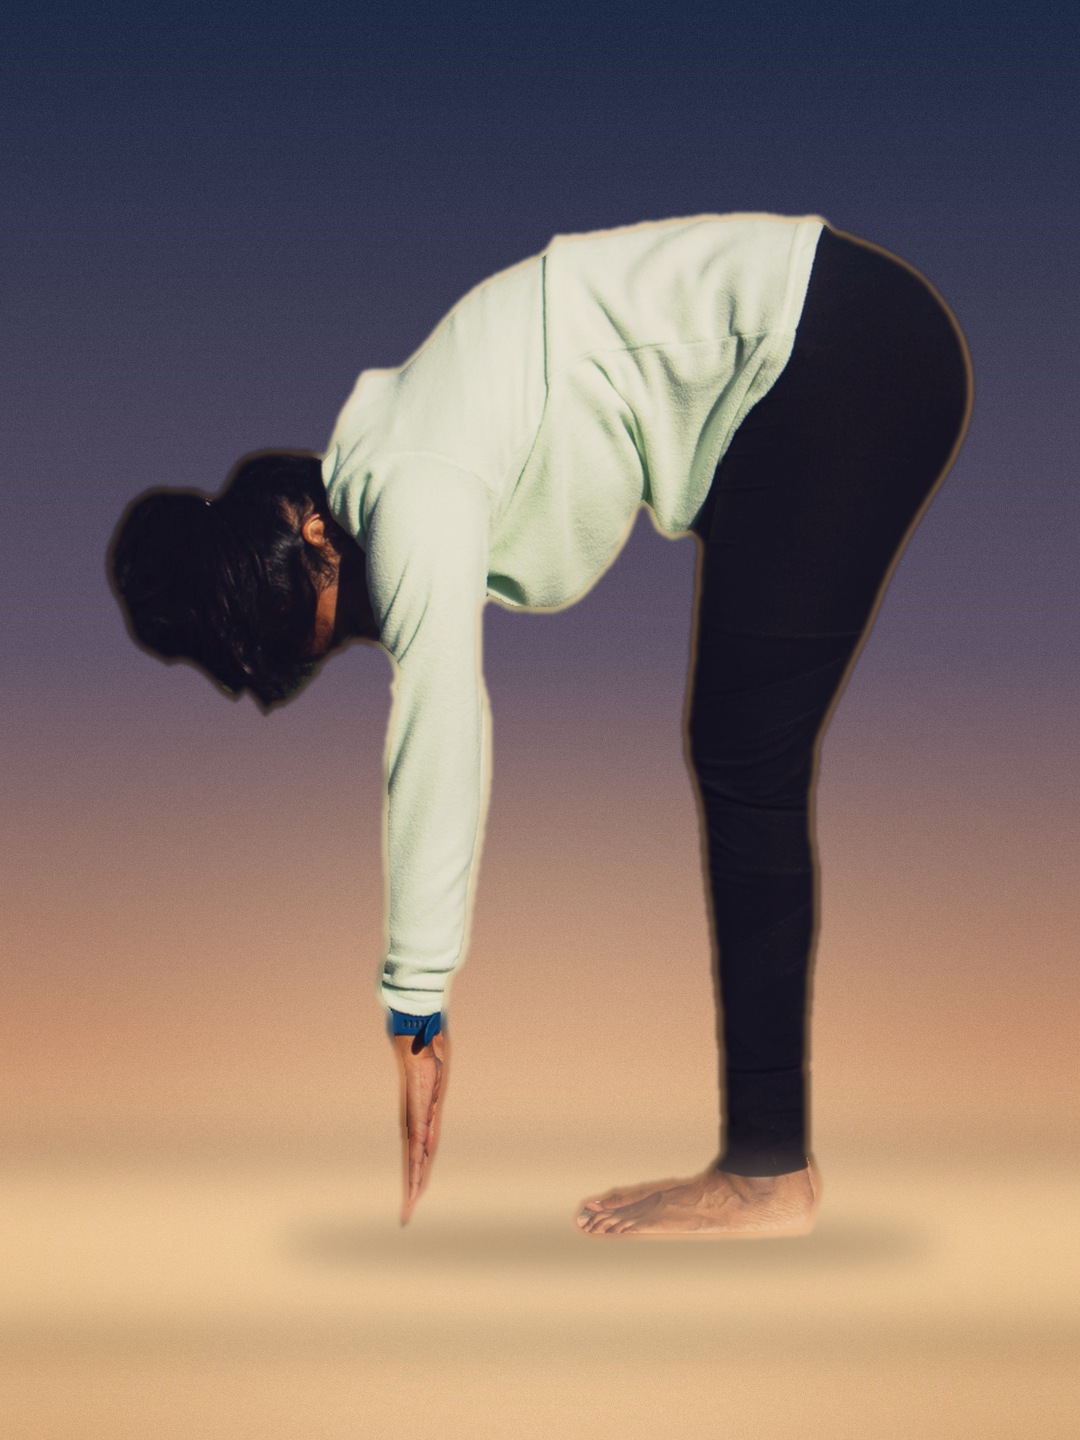
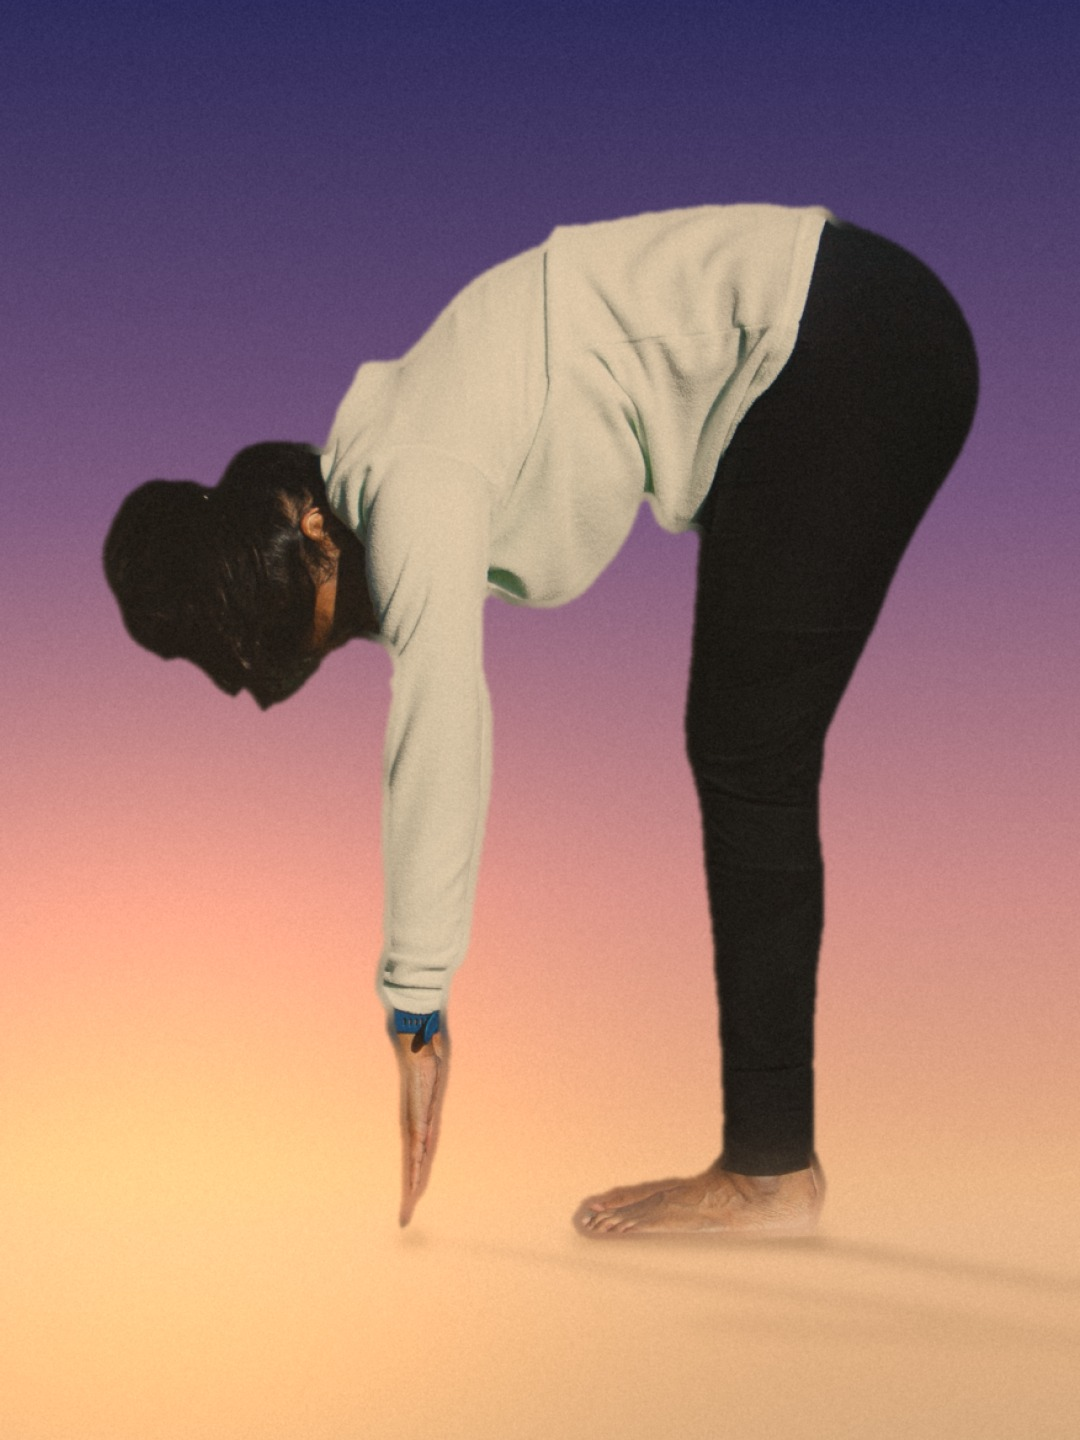
jeevana site: dawn keyframes composed, film regeneration started
Claude-Session: https://claude.ai/code/session_01XhuHXMUtaaY4hUgDgL1ofY

diff --git a/deliverables/jeevana_site_2026-10-26/research/compose_dawn.py b/deliverables/jeevana_site_2026-10-26/research/compose_dawn.py
@@ -4,3 +4,152 @@ description: builds research/keyframes/dawn/frame-NN.jpg (1080x1440) from _raw_a
   Parameters at the top (rim, haze, shadow, grade) are the knobs; the plate is procedural (gradient + glow + grain).
 inputs: --out DIR (default research/keyframes/dawn). outputs: frame-01..12.jpg, plate.jpg."""
 # (starting point written by the brain 2026-10-26; the compositor worker iterates the knobs to an art-director GO)
+import argparse, json
+from pathlib import Path
+import numpy as np, cv2
+from PIL import Image
+
+ROOT = Path(__file__).resolve().parent.parent
+CUT = ROOT / "_raw_assets" / "cutouts_v3"
+W, H = 1080, 1440
+FIG_H, GROUND_Y, MAX_W = 0.72, 0.86, 0.88
+SUN = (0.14, 0.80)                       # low-left, fraction of canvas
+# knobs
+RIM_OPACITY, RIM_PX, RIM_RGB = 0.28, 1.5, (236, 178, 104)       # ochre, sun side only
+HAZE_PLATE, HAZE_SUBJ_MAX = 0.55, 0.35
+CONTACT_OP, CAST_OP, CAST_LEN, CAST_SQUASH = 0.45, 0.22, 0.9, 0.14
+CONTRAST, WRAP_OP, WRAP_RGB = 0.86, 0.14, (255, 176, 112)
+CREAM, HI_START, HI_COMP = np.array([240, 222, 196.]), 170, 0.6
+FRINGE_PX, GRAIN = 3, 5.0
+STOPS = [(0.0, (46, 44, 92)), (0.35, (122, 88, 128)), (0.62, (206, 140, 136)),
+         (0.82, (232, 176, 128)), (1.0, (214, 170, 128))]          # indigo -> dusty rose -> ochre haze
+
+
+def plate(seed=0):
+    y = np.linspace(0, 1, H)[:, None]
+    img = np.zeros((H, W, 3))
+    for c in range(3):
+        img[..., c] = np.interp(y, [s[0] for s in STOPS], [s[1][c] for s in STOPS]) * np.ones((1, W))
+    yy, xx = np.mgrid[0:H, 0:W] / np.array([H, W])[:, None, None]
+    d = np.hypot((xx - SUN[0]) * W / H, yy - SUN[1])
+    glow = np.exp(-(d / 0.30) ** 2)
+    img += glow[..., None] * np.array([70, 42, 10.]) * 0.9
+    band = np.exp(-((yy - GROUND_Y) / 0.06) ** 2)          # horizon haze
+    img = img * (1 - HAZE_PLATE * band[..., None] * 0.5) + np.array([240, 205, 170.]) * HAZE_PLATE * band[..., None] * 0.5
+    return img
+
+
+def grain(img, seed):
+    rng = np.random.default_rng(seed)
+    n = cv2.GaussianBlur(rng.normal(0, 1, (H, W)).astype(np.float32), (0, 0), 0.7)
+    return img + n[..., None] * GRAIN
+
+
+def load(name):
+    meta = json.loads((CUT / "cutouts.json").read_text())[name]
+    a = np.array(Image.open(CUT / meta["file"]).convert("RGBA")).astype(np.float32)
+    return a, meta["ground"]
+
+
+def fix_cutout(rgba):
+    rgb, al = rgba[..., :3], rgba[..., 3] / 255
+    # edge decontamination: replace edge band with blurred interior colour, kill blue cast
+    core = cv2.erode((al > 0.98).astype(np.float32), np.ones((2 * FRINGE_PX + 1,) * 2))
+    k = 9
+    num = cv2.GaussianBlur(rgb * core[..., None], (0, 0), k)
+    den = cv2.GaussianBlur(core, (0, 0), k)[..., None] + 1e-4
+    inner = num / den
+    band = np.clip((al > 0.02) - core, 0, 1)
+    band = cv2.GaussianBlur(band, (0, 0), 1.0)[..., None]
+    has = (den > 0.02).astype(np.float32)
+    rgb = rgb * (1 - band * has) + inner * band * has
+    lum = rgb.mean(2, keepdims=True)
+    blue = np.clip((rgb[..., 2:3] - rgb[..., :1]) / 40, 0, 1) * np.clip(band * 2, 0, 1)
+    rgb = rgb * (1 - blue) + lum * blue
+    # fleece: cool bright low-sat -> cream, compressed
+    mx, mn = rgb.max(2), rgb.min(2)
+    L = rgb.mean(2)
+    w = np.clip((L - 85) / 35, 0, 1) * np.clip(1 - (mx - mn) / 110, 0, 1)
+    w = cv2.GaussianBlur(w, (0, 0), 1.5)[..., None]
+    Lc = HI_START + (L - HI_START).clip(0) * HI_COMP
+    Lc = np.where(L > HI_START, Lc, L)[..., None]
+    cream = CREAM / CREAM.mean() * Lc
+    rgb = rgb * (1 - w) + cream * w
+    # soften hard daylight contrast toward a warmer mid
+    m = (rgb * al[..., None]).sum((0, 1)) / (al.sum() + 1)
+    rgb = m + (rgb - m) * CONTRAST
+    rgb = rgb * np.array([1.03, 0.99, 0.94])
+    return np.dstack([rgb.clip(0, 255), al * 255])
+
+
+def place(rgba, ground):
+    h, w = rgba.shape[:2]
+    ys, xs = np.nonzero(rgba[..., 3] > 20)
+    top, gy = ys.min(), ground * h
+    s = min(FIG_H * H / (gy - top), MAX_W * W / (xs.max() - xs.min()))
+    big = cv2.resize(rgba, (round(w * s), round(h * s)), interpolation=cv2.INTER_AREA)
+    cx = (xs.min() + xs.max()) / 2 * s
+    ox, oy = round(W / 2 - cx), round(GROUND_Y * H - gy * s)
+    M = np.float32([[1, 0, ox], [0, 1, oy]])
+    out = cv2.warpAffine(big, M, (W, H), flags=cv2.INTER_LINEAR, borderValue=(0, 0, 0, 0))
+    return out
+
+
+def compose(name, bg, seed):
+    rgba, g = load(name)
+    fig = place(fix_cutout(rgba), g)
+    rgb, al = fig[..., :3], fig[..., 3] / 255
+    gy = int(GROUND_Y * H)
+    img = bg.copy()
+    # contact shadow: pixels of figure within ~3% above ground, squashed and blurred
+    near = al * (np.arange(H)[:, None] > gy - 0.035 * H)
+    cols = near.max(0)
+    cs = np.zeros((H, W), np.float32)
+    cs[gy - 4:gy + 6] = cols
+    cs = cv2.GaussianBlur(cs, (0, 0), 9)
+    # cast shadow: silhouette flattened onto ground and skewed away from sun (to the right)
+    ys = np.arange(H)[:, None]
+    hgt = (gy - ys).clip(0)
+    src = cv2.GaussianBlur(al, (0, 0), 2)
+    M = np.float32([[1, -CAST_LEN / CAST_SQUASH * CAST_SQUASH * 1.0 / 1, 0], [0, 1, 0]])
+    # map: shadow point (x', y') = (x + CAST_LEN*h, gy + CAST_SQUASH*h)
+    M = np.float32([[1, CAST_LEN / CAST_SQUASH, 0], [0, 1, 0]])
+    flat = cv2.warpAffine(src, np.float32([[1, 0, 0], [0, -CAST_SQUASH, gy * (1 + CAST_SQUASH)]]), (W, H))
+    flat = cv2.warpAffine(flat, np.float32([[1, CAST_LEN / CAST_SQUASH, -CAST_LEN / CAST_SQUASH * gy], [0, 1, 0]]), (W, H))
+    fade = np.exp(-((ys - gy) / (0.05 * H)).clip(0))
+    cast = cv2.GaussianBlur(flat * fade, (0, 0), 6) * (ys >= gy - 2)
+    sh = np.clip(CONTACT_OP * cs + CAST_OP * cast, 0, 0.6)[..., None]
+    img = img * (1 - sh * np.array([0.55, 0.62, 0.70]))
+    # wrap light: warm from lower-left on figure
+    yy, xx = np.mgrid[0:H, 0:W] / np.array([H, W])[:, None, None]
+    wl = np.clip(1 - np.hypot(xx - SUN[0], yy - SUN[1]) / 0.9, 0, 1) ** 1.5
+    lit = rgb + (255 - rgb) * (np.array(WRAP_RGB) / 255) * (WRAP_OP * wl)[..., None]
+    # rim on sun side: alpha edge whose left neighbour is empty
+    shift = int(round(RIM_PX))
+    left = np.zeros_like(al); left[:, shift:] = al[:, :-shift]
+    down = np.zeros_like(al); down[:-1] = al[1:]
+    edge = np.clip(al - np.minimum(left, 1) * 0.0 - left, 0, 1) + 0.4 * np.clip(al - down, 0, 1)
+    edge = cv2.GaussianBlur(np.clip(edge, 0, 1), (0, 0), 0.6) * al * (0.4 + 0.6 * wl)
+    lit = lit * (1 - RIM_OPACITY * edge[..., None]) + np.array(RIM_RGB) * RIM_OPACITY * edge[..., None]
+    img = img * (1 - al[..., None]) + lit * al[..., None]
+    # horizon haze over subject, capped
+    band = np.exp(-((ys - gy) / (0.05 * H)) ** 2) * HAZE_SUBJ_MAX
+    img = img * (1 - band[..., None] * al[..., None]) + bg * band[..., None] * al[..., None]
+    return np.clip(grain(img, seed), 0, 255).astype(np.uint8)
+
+
+def main():
+    ap = argparse.ArgumentParser()
+    ap.add_argument("--out", default=str(ROOT / "research/keyframes/dawn"))
+    ap.add_argument("--frames", default="1-12")
+    a = ap.parse_args()
+    out = Path(a.out); out.mkdir(parents=True, exist_ok=True)
+    lo, hi = map(int, a.frames.split("-")) if "-" in a.frames else (int(a.frames),) * 2
+    bg = plate()
+    Image.fromarray(np.clip(grain(bg, 0), 0, 255).astype(np.uint8)).save(out / "plate.jpg", quality=92)
+    for i in range(lo, hi + 1):
+        Image.fromarray(compose(f"sn-{i:02d}", bg, i)).save(out / f"frame-{i:02d}.jpg", quality=92)
+
+
+if __name__ == "__main__":
+    main()
